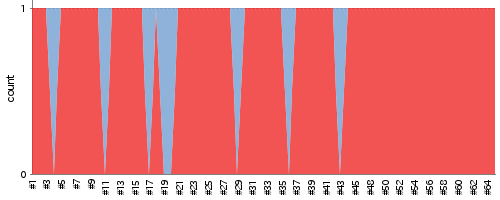
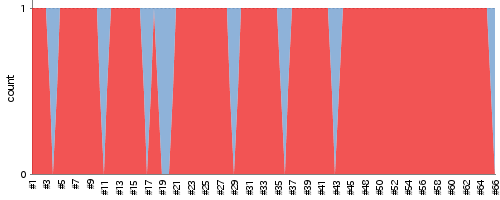
update report

diff --git a/index.md b/index.md
@@ -2,7 +2,7 @@
 layout: default
 ---
 # Jenkins CI report For HRG
-## Build and test report (2015/07/06 09:28:20)
+## Build and test report (2015/07/06 10:28:51)
 ### Build Status
 ___
 ![Build Status](http://jenkinshrg.github.io/images/badge.svg)
@@ -25,18 +25,19 @@ ___
 ___
 * Status
   
-![Jenkins Icon](http://jenkinshrg.github.io/images/48x48/yellow.png)
-UNSTABLE
+![Jenkins Icon](http://jenkinshrg.github.io/images/48x48/blue.png)
+SUCCESS
   
 * Stability
   
 ![Jenkins Icon](http://jenkinshrg.github.io/images/48x48/health-00to19.png)
-12%
+13%
   
 * Latest Results
   
 |Status|Time|Duration|Changes|Build|Test|Note|
 |---|---|---|---|---|---|---|
+|![Jenkins Icon](http://jenkinshrg.github.io/images/24x24/blue.png)SUCCESS|2015/07/06 10:00|28 min.|[CHANGES](https://drive.google.com/file/d/0B54sHwaxmuM4SXJPdTFpY294SDg/view?usp=drivesdk) |[BUILD](https://drive.google.com/file/d/0B54sHwaxmuM4T0FfSFU3RXBtLXM/view?usp=drivesdk) |[CONSOLE](https://drive.google.com/file/d/0B54sHwaxmuM4bFFIZDk0bEVoOXM/view?usp=drivesdk) [IMAGE](https://drive.google.com/file/d/0B54sHwaxmuM4bW1qNnZZTmczMFE/edit?usp=drivesdk) [VIDEO](https://drive.google.com/file/d/0B54sHwaxmuM4M3pZZTBIN21ZV1k/edit?usp=drivesdk) | |
 |![Jenkins Icon](http://jenkinshrg.github.io/images/24x24/yellow.png)UNSTABLE|2015/07/06 09:00|28 min.||[BUILD](https://drive.google.com/file/d/0B54sHwaxmuM4cUppUGVmNS1NaHM/view?usp=drivesdk) |[CONSOLE](https://drive.google.com/file/d/0B54sHwaxmuM4UjlPQU5zR0VUYXc/view?usp=drivesdk) [IMAGE](https://drive.google.com/file/d/0B54sHwaxmuM4ZmdlMTFQb3E5WEE/edit?usp=drivesdk) [VIDEO](https://drive.google.com/file/d/0B54sHwaxmuM4ZGlCMWZCYlJuNG8/edit?usp=drivesdk) |STOP RED|
 |![Jenkins Icon](http://jenkinshrg.github.io/images/24x24/yellow.png)UNSTABLE|2015/07/06 08:00|28 min.||[BUILD](https://drive.google.com/file/d/0B54sHwaxmuM4R3ZoVGlGQVNiSEE/view?usp=drivesdk) |[CONSOLE](https://drive.google.com/file/d/0B54sHwaxmuM4V2tjUDVyb3NLUm8/view?usp=drivesdk) [IMAGE](https://drive.google.com/file/d/0B54sHwaxmuM4b2xhY1Y5dXFQZW8/edit?usp=drivesdk) [VIDEO](https://drive.google.com/file/d/0B54sHwaxmuM4d25zYjQ3enRjaVU/edit?usp=drivesdk) |STOP RED|
 |![Jenkins Icon](http://jenkinshrg.github.io/images/24x24/yellow.png)UNSTABLE|2015/07/06 07:00|28 min.||[BUILD](https://drive.google.com/file/d/0B54sHwaxmuM4Wmk5QjNTSkVUSGc/view?usp=drivesdk) |[CONSOLE](https://drive.google.com/file/d/0B54sHwaxmuM4Slc4dzhIbVNtSlU/view?usp=drivesdk) [IMAGE](https://drive.google.com/file/d/0B54sHwaxmuM4Q0VpcWFxbHAzLW8/edit?usp=drivesdk) [VIDEO](https://drive.google.com/file/d/0B54sHwaxmuM4UmFuY0w5NE1vOFk/edit?usp=drivesdk) |STOP RED|
